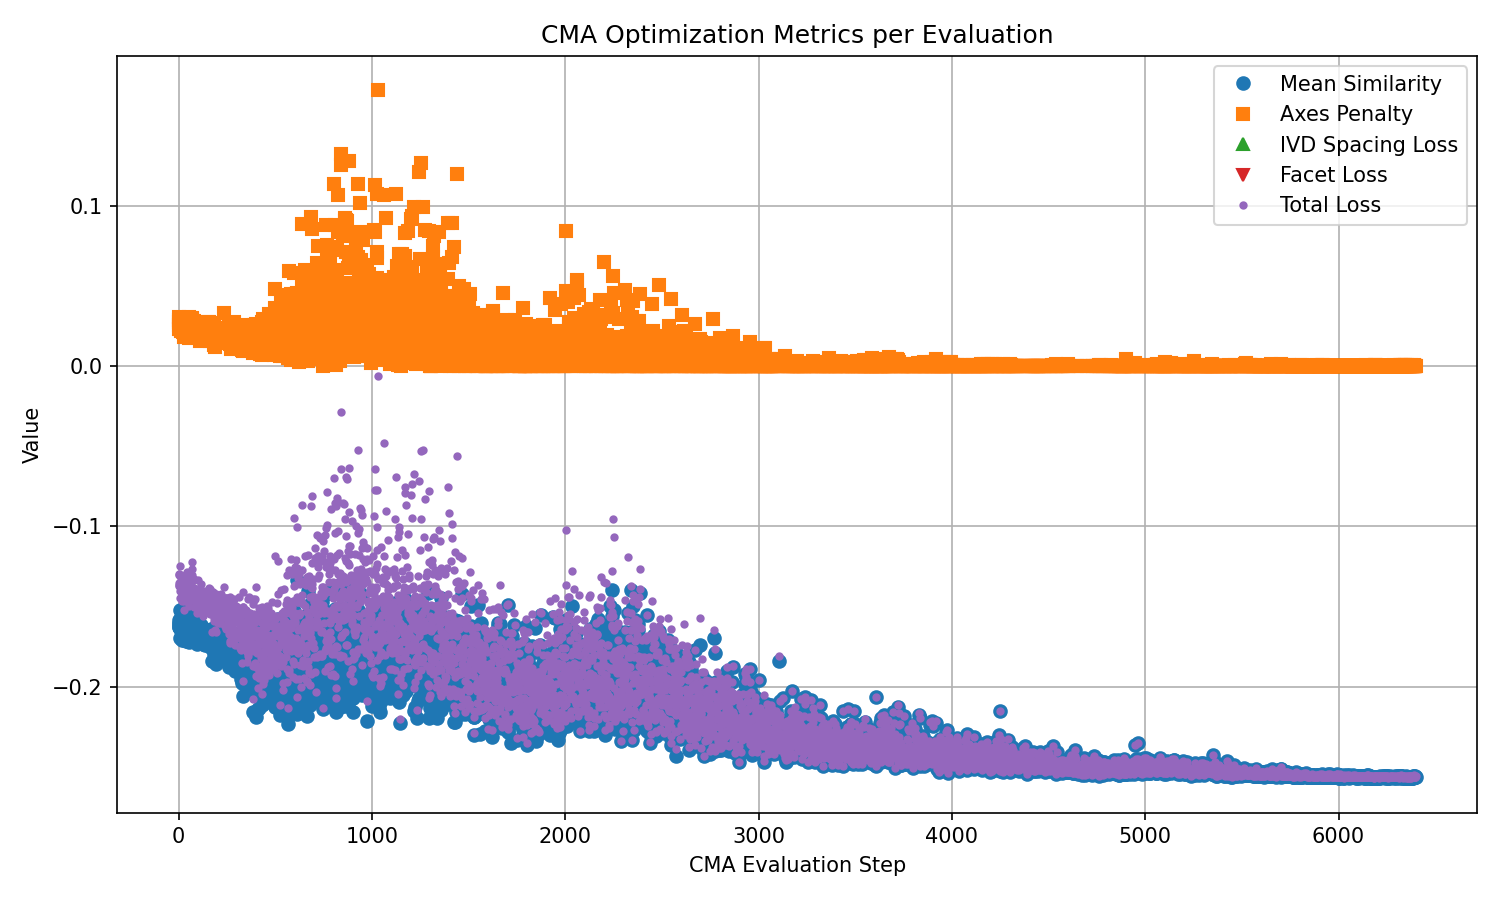
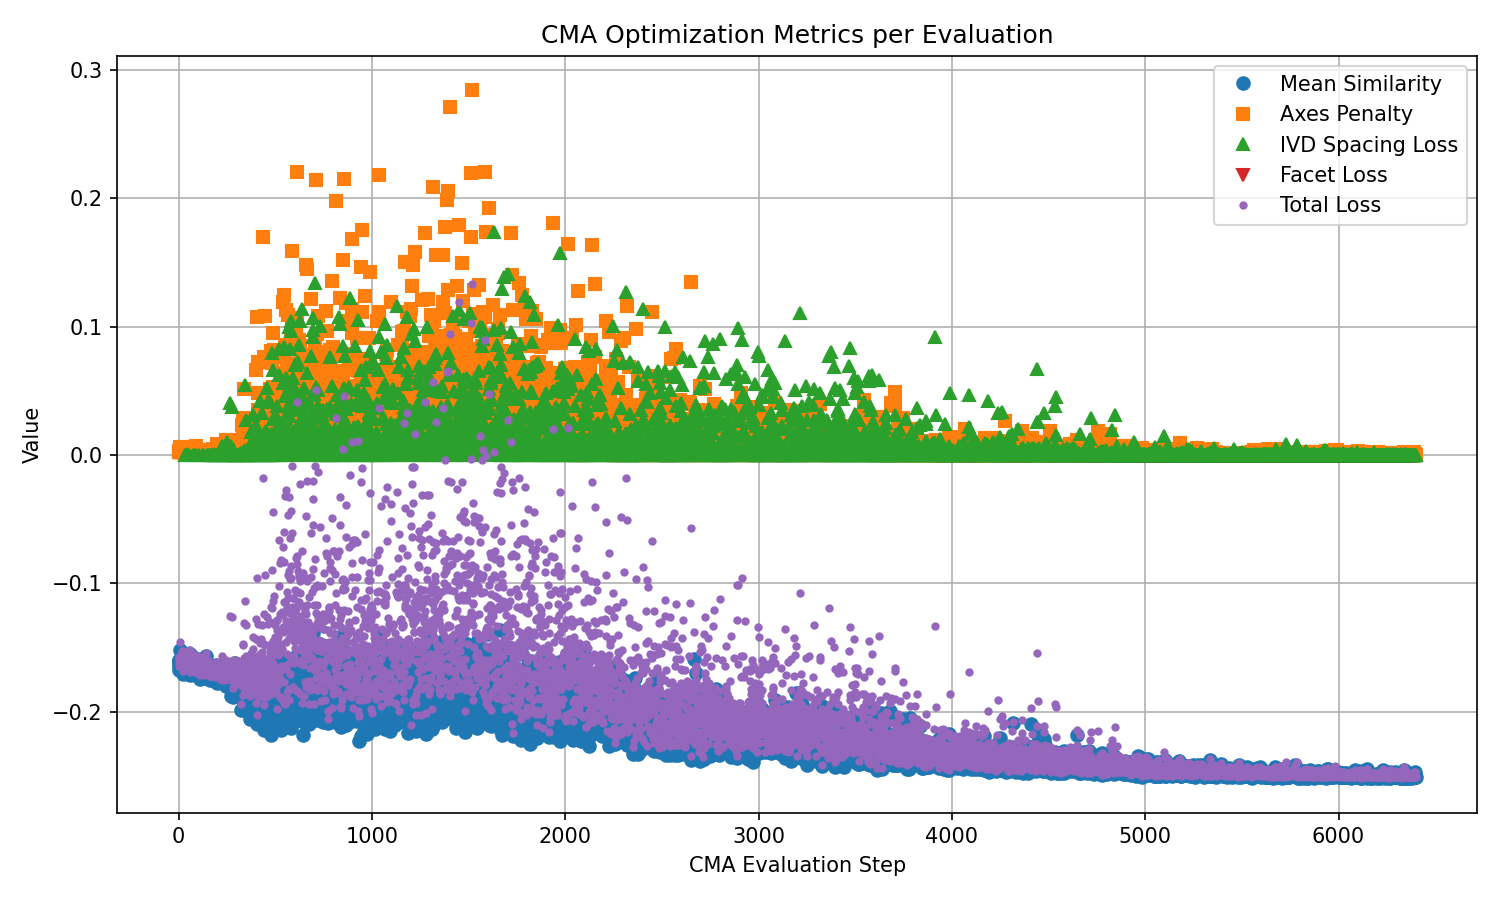
cleaned

diff --git a/utils/helpers.py b/utils/helpers.py
@@ -59,29 +59,7 @@ def compute_facet_collision_loss(pairings, transforms_list, case_names):
         direction_penalty += near_flip_penalty
 
 
-        # # LOSS COMPONENT 2: COLLISION AVOIDANCE (HARD)
-        # collision_threshold = 0.5  # mm - hard collision boundary
-        # violations = collision_threshold - current_distances
-        # violations = np.maximum(0, violations)
-        
-        # # exp penalty - gets severe as penetration deepens
-        # collision_penalty = np.sum(np.exp(violations) - 1.0)
-        # n_collisions = np.sum(current_distances < collision_threshold)
-        
-
-
-        # # LOSS COMPONENT 3a: PRESERVE MIN SPACING (SOFT)
-        # max_compression_frac = 0.35 # percentile
-        # min_allowed = (1.0 - max_compression_frac) * initial_distances
-
-        # spacing_violations = min_allowed - current_distances
-        # spacing_violations = np.maximum(0, spacing_violations)
-
-        # relative_spacing_penalty = np.mean(spacing_violations ** 2) # try .sum?
-
-
-
-        # LOSS COMPONENT 3b: PRESERVE MEAN SPACING (SOFT)
+        # LOSS COMPONENT 2: PRESERVE MEAN SPACING (SOFT)
         initial_mean = np.mean(initial_distances)
         current_mean = np.mean(current_distances)
         
@@ -97,10 +75,8 @@ def compute_facet_collision_loss(pairings, transforms_list, case_names):
 
 
         # COMPUTE LOSS
-        # w_collision = 5   # critical - prevent collisions, mayeb try 2?
         w_mean_spacing = 1   # moderate - maintain anatomy
-        w_direction = 1
-        # w_relative_spacing = 5
+        w_direction = 2
         
         pair_loss = (
             # w_collision * collision_penalty +
@@ -156,10 +132,9 @@ def compute_ivd_collision_loss(pairings, transforms_list, case_names):
         tx2 = transforms_list[i + 1]
         pts1_transformed = np.array([tx1.TransformPoint(p.tolist()) for p in pts1])
         pts2_transformed = np.array([tx2.TransformPoint(p.tolist()) for p in pts2])
-        
-
         # compute current pairwise distances
         current_distances = np.linalg.norm(pts1_transformed - pts2_transformed, axis=1)
+
 
         # LOSS COMPONENT #1: DIRECTION VECTOR FLIPPING (collision)
         # cosine similiarity between current vectors and v0
@@ -179,25 +154,25 @@ def compute_ivd_collision_loss(pairings, transforms_list, case_names):
 
 
 
-        # LOSS COMPONENT 2: COLLISION AVOIDANCE (HARD)
-        collision_threshold = 1.0  # mm - hard collision boundary
-        violations = collision_threshold - current_distances
-        violations = np.maximum(0, violations)
+        # # LOSS COMPONENT 2: COLLISION AVOIDANCE (HARD)
+        # collision_threshold = 1.0  # mm - hard collision boundary
+        # violations = collision_threshold - current_distances
+        # violations = np.maximum(0, violations)
         
-        # exp penalty - gets severe as penetration deepens
-        collision_penalty = np.sum(np.exp(violations) - 1.0)
-        n_collisions = np.sum(current_distances < collision_threshold)
+        # # exp penalty - gets severe as penetration deepens
+        # collision_penalty = np.sum(np.exp(violations) - 1.0)
+        # n_collisions = np.sum(current_distances < collision_threshold)
         
 
 
-        # LOSS COMPONENT 3a: PRESERVE MIN SPACING (SOFT)
-        max_compression_frac = 0.35 # percentile
-        min_allowed = (1.0 - max_compression_frac) * initial_distances
+        # # LOSS COMPONENT 3a: PRESERVE MIN SPACING (SOFT)
+        # max_compression_frac = 0.35 # percentile
+        # min_allowed = (1.0 - max_compression_frac) * initial_distances
 
-        spacing_violations = min_allowed - current_distances
-        spacing_violations = np.maximum(0, spacing_violations)
+        # spacing_violations = min_allowed - current_distances
+        # spacing_violations = np.maximum(0, spacing_violations)
 
-        relative_spacing_penalty = np.mean(spacing_violations ** 2) # try .sum?
+        # relative_spacing_penalty = np.mean(spacing_violations ** 2) # try .sum?
 
 
 
@@ -217,14 +192,14 @@ def compute_ivd_collision_loss(pairings, transforms_list, case_names):
 
 
         # COMPUTE LOSS
-        w_collision = 1.0   # critical - prevent collisions, mayeb try 2?
+        # w_collision = 1.0   # critical - prevent collisions, mayeb try 2?
         w_mean_spacing = 0.5   # moderate - maintain anatomy
         w_direction = 1.0
-        w_relative_spacing = 1.0
+        # w_relative_spacing = 1.0
         
         pair_loss = (
-            w_collision * collision_penalty +
-            w_relative_spacing * relative_spacing_penalty +
+            # w_collision * collision_penalty +
+            # w_relative_spacing * relative_spacing_penalty +
             w_mean_spacing * mean_spacing_penalty +
             w_direction * direction_penalty
         )
@@ -234,18 +209,18 @@ def compute_ivd_collision_loss(pairings, transforms_list, case_names):
         pair_name = f"L{pair_key[0]}-L{pair_key[1]}"
         
         # store metrics
-        metrics[pair_name] = {
-            'pair_idx': pair_key,   
-            'current_mean': float(current_mean),
-            'initial_mean': float(initial_mean),
-            'current_min': float(np.min(current_distances)),
-            'current_max': float(np.max(current_distances)),
-            'current_std': float(np.std(current_distances)),
-            'n_collisions': int(n_collisions),
-            'collision_loss': float(w_collision * collision_penalty),
-            'mean_spacing_loss': float(w_mean_spacing * mean_spacing_penalty),
-            'total_loss': float(pair_loss)
-        }
+        # metrics[pair_name] = {
+        #     'pair_idx': pair_key,   
+        #     'current_mean': float(current_mean),
+        #     'initial_mean': float(initial_mean),
+        #     'current_min': float(np.min(current_distances)),
+        #     'current_max': float(np.max(current_distances)),
+        #     'current_std': float(np.std(current_distances)),
+        #     'n_collisions': int(n_collisions),
+        #     'collision_loss': float(w_collision * collision_penalty),
+        #     'mean_spacing_loss': float(w_mean_spacing * mean_spacing_penalty),
+        #     'total_loss': float(pair_loss)
+        # }
     
     return total_loss, metrics
 

diff --git a/groupwise_GPU.py b/groupwise_GPU.py
@@ -92,7 +92,7 @@ def evaluate_group_gpu(flat_params, K, centers, sampled_positions_list,
 
 
     # INTER-VERTEBRAL DISPLACEMENT PENALTY
-    lambda_axes = 0.1
+    lambda_axes = 0.01 # 0.01 usually
     axes_margins = { # mm, degree values
         'LM': 2.0,
         'AP': 2.0,
@@ -109,12 +109,12 @@ def evaluate_group_gpu(flat_params, K, centers, sampled_positions_list,
 
 
     # IVD POINT PAIR PENALTY
-    lambda_ivd = 0.000
+    lambda_ivd = 0.001 # 0.001
     ivd_loss, ivd_metrics = compute_ivd_collision_loss(pairings, transforms_list, case_names)
     
 
     # FACET POINT PAIR PENALTY
-    lambda_facet = 0.0 # was 0.001
+    lambda_facet = 0.000
     facet_loss, facet_metrics = compute_facet_collision_loss(facet_pairings, transforms_list, case_names)
 
 
